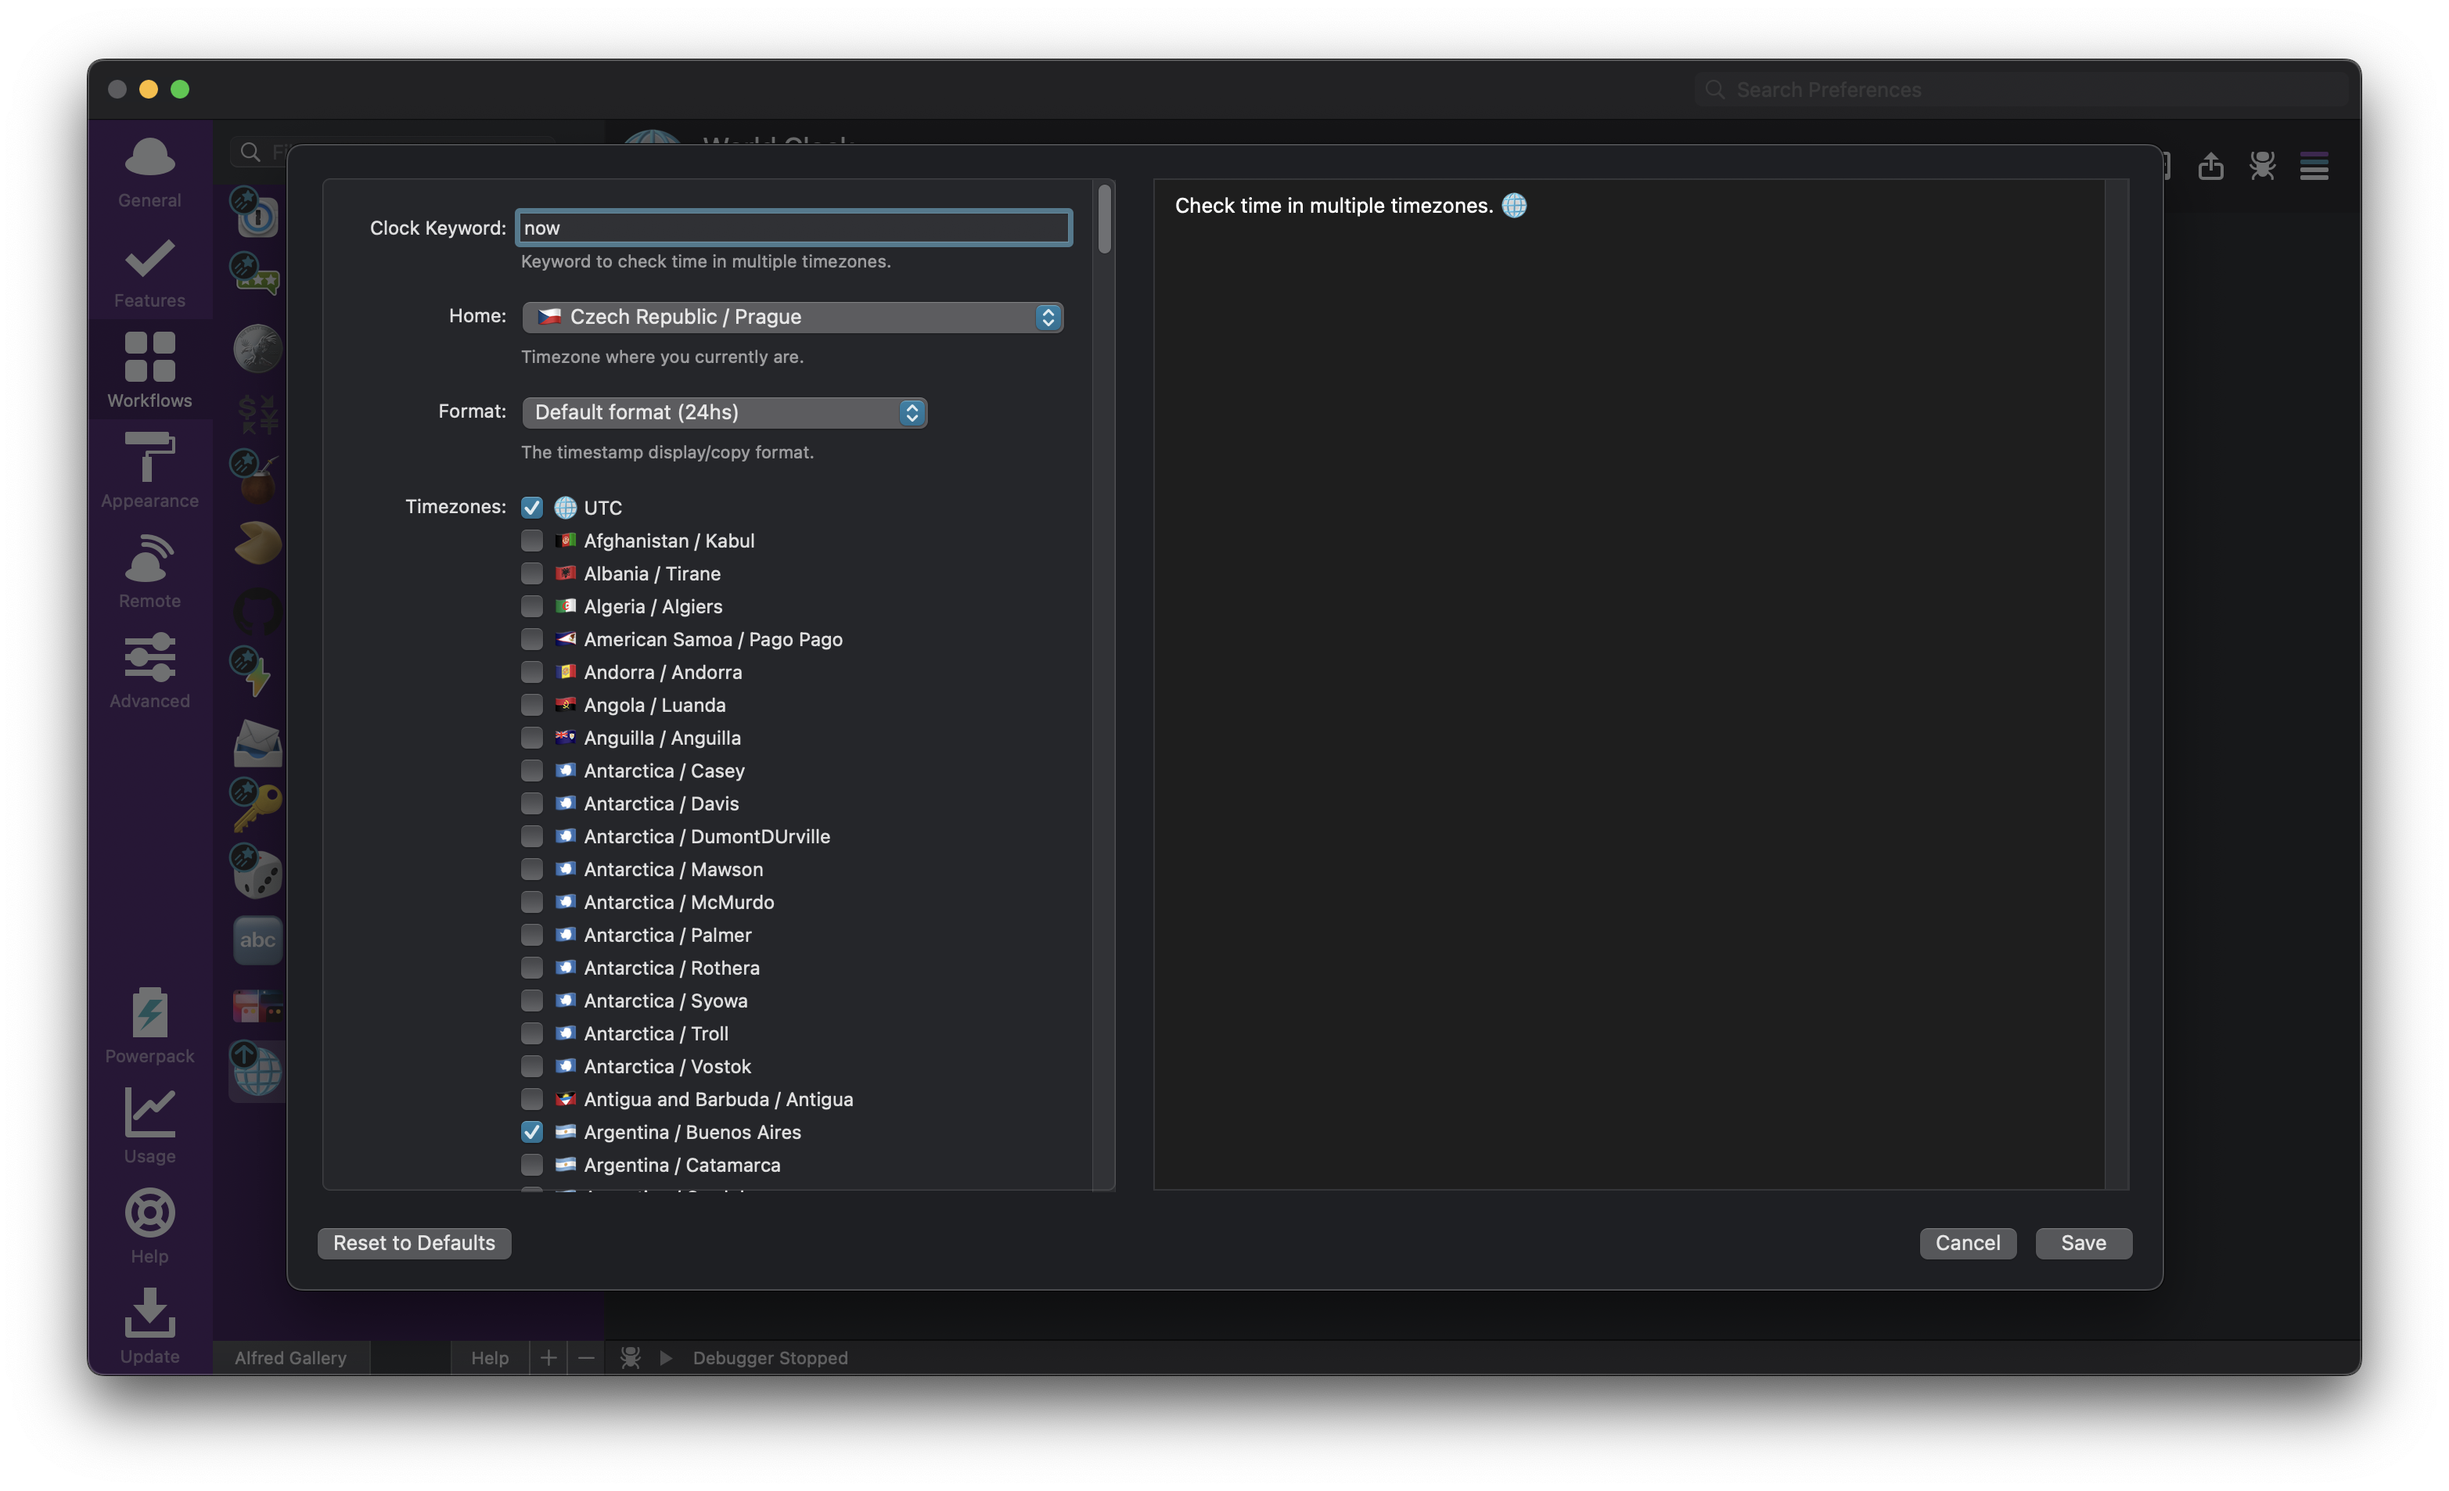
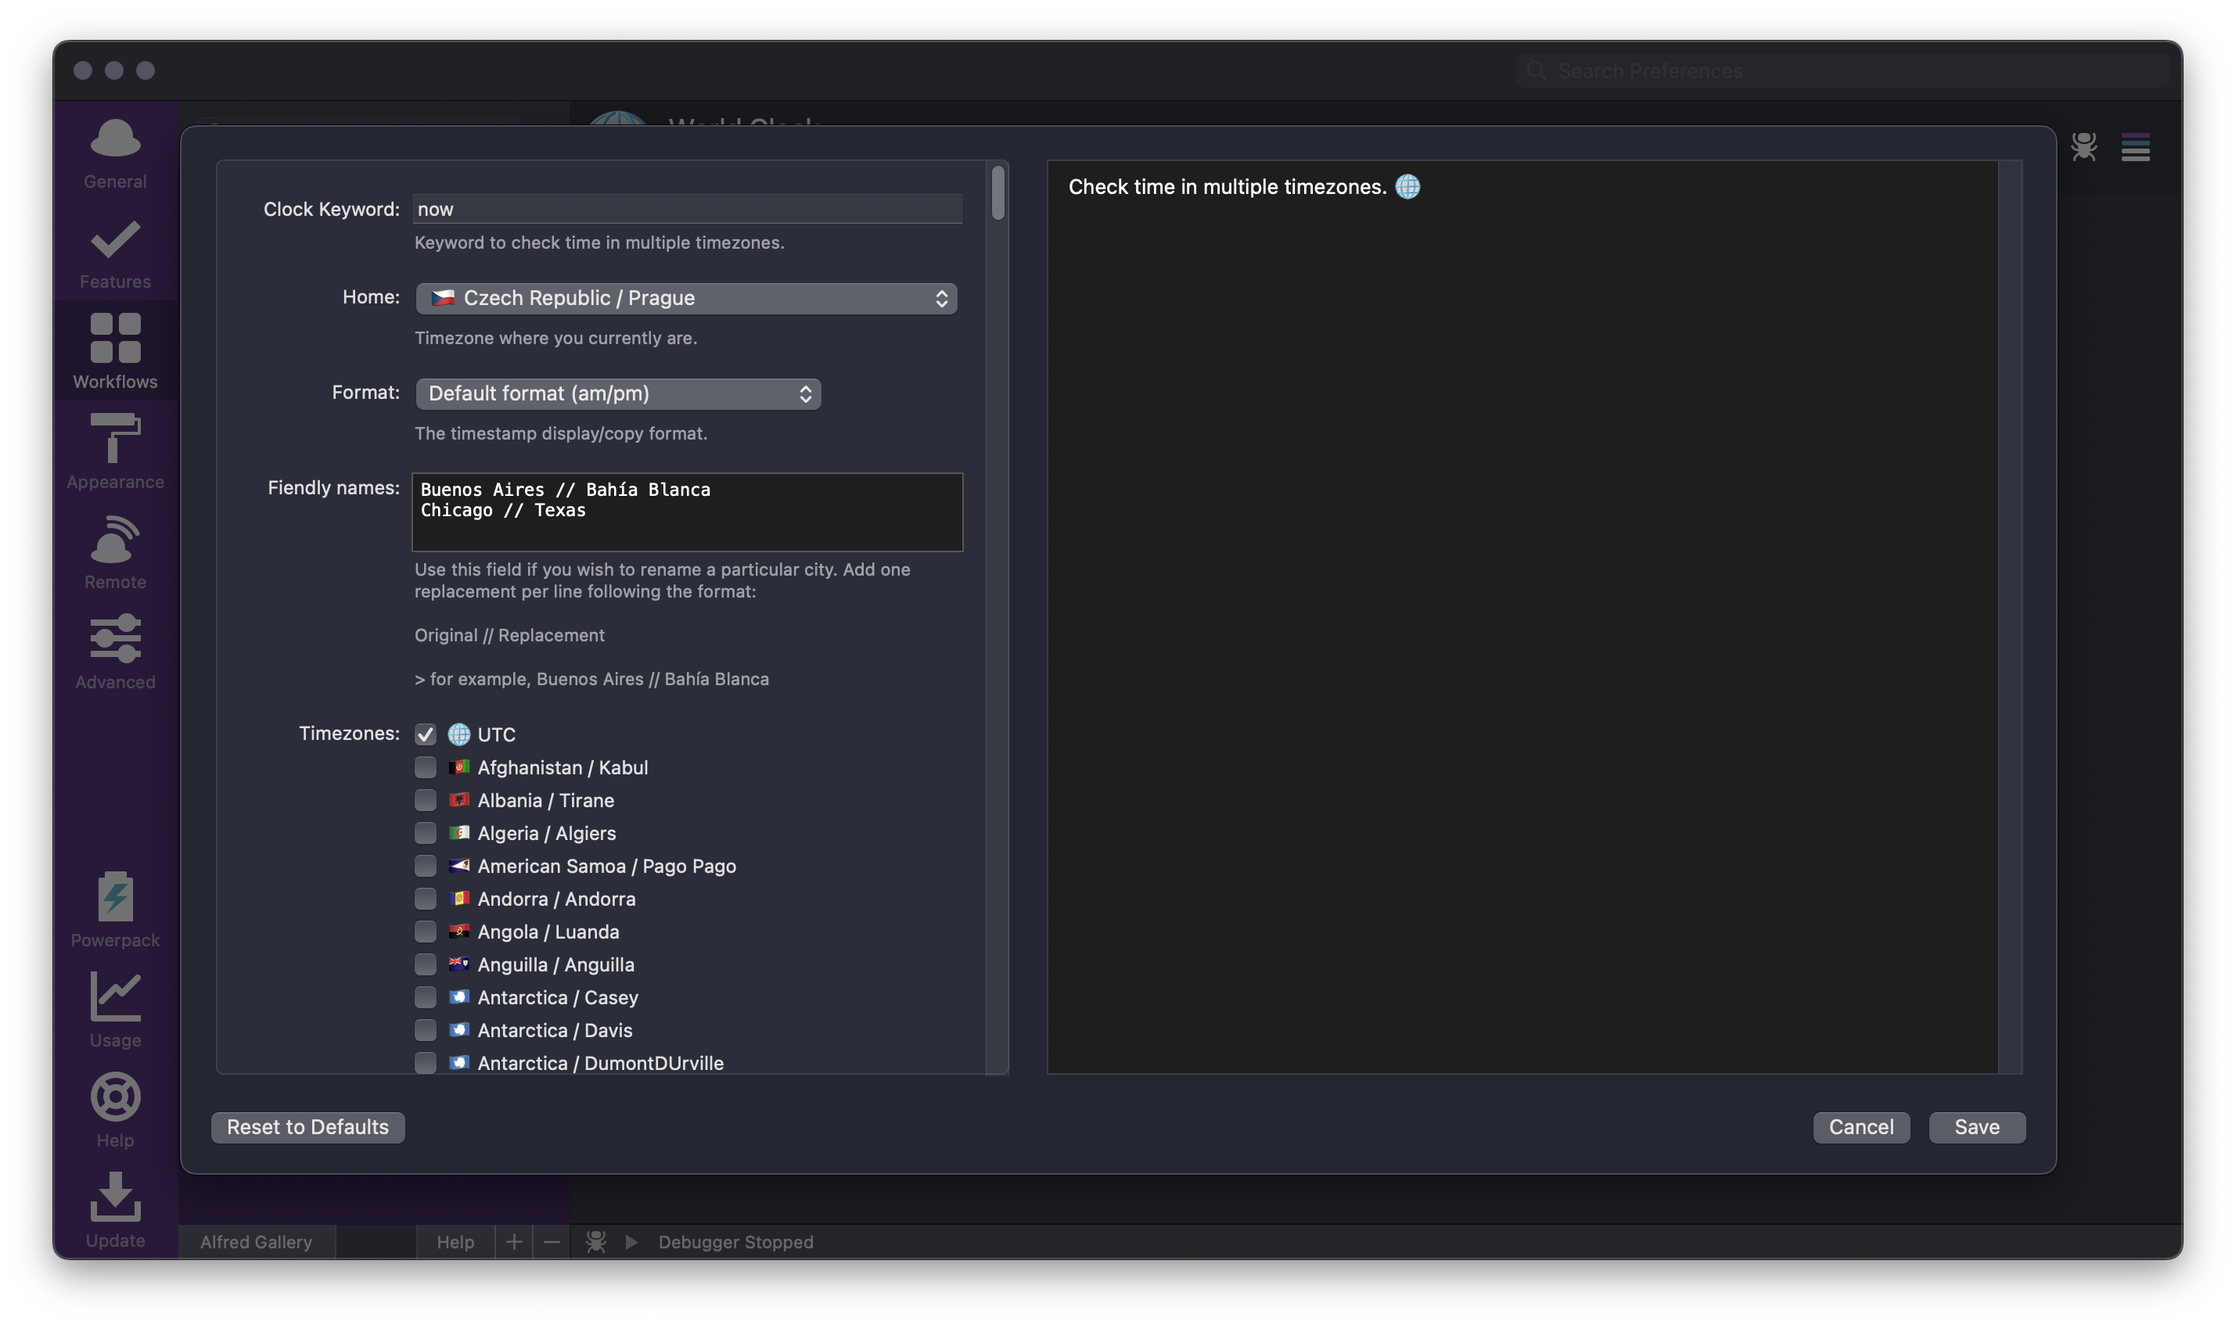
Update doc

Changed region(s): [[0.0, 0.0307, 0.9965, 0.9823]]

diff --git a/README.md b/README.md
@@ -32,3 +32,5 @@
 ##### ISO Format (without microseconds)
 ![iso without microseconds](screenshots/usage_iso_without_microseconds.png)
 
+#### Friendly names
+![friendly names](screenshots/friendly_names.png)
